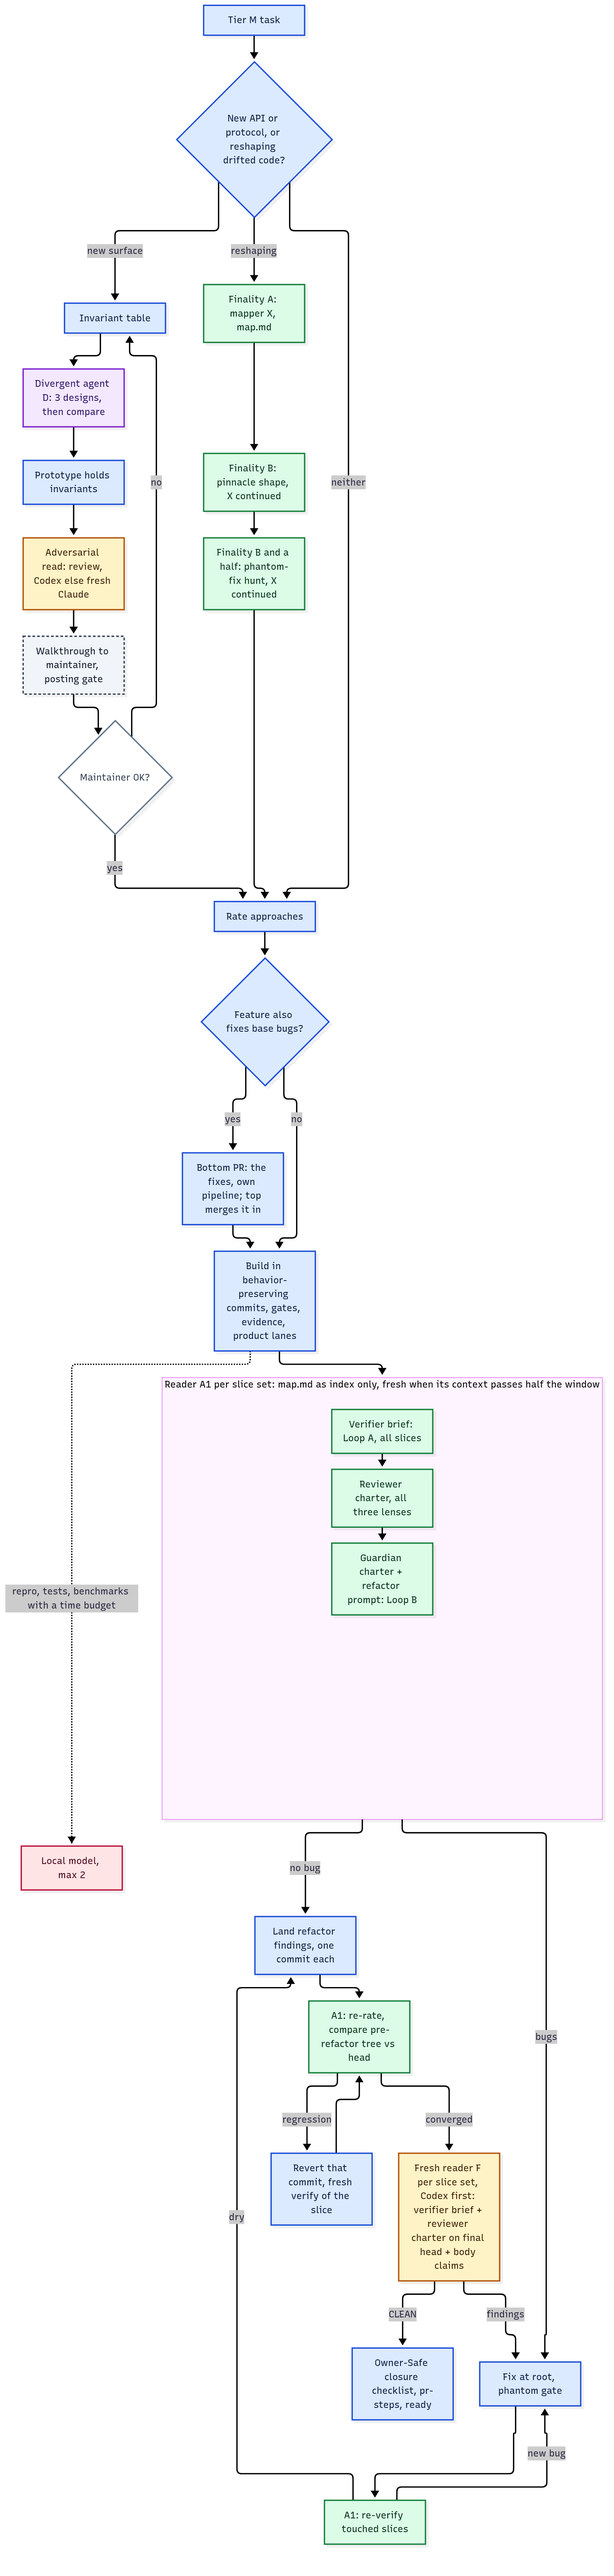
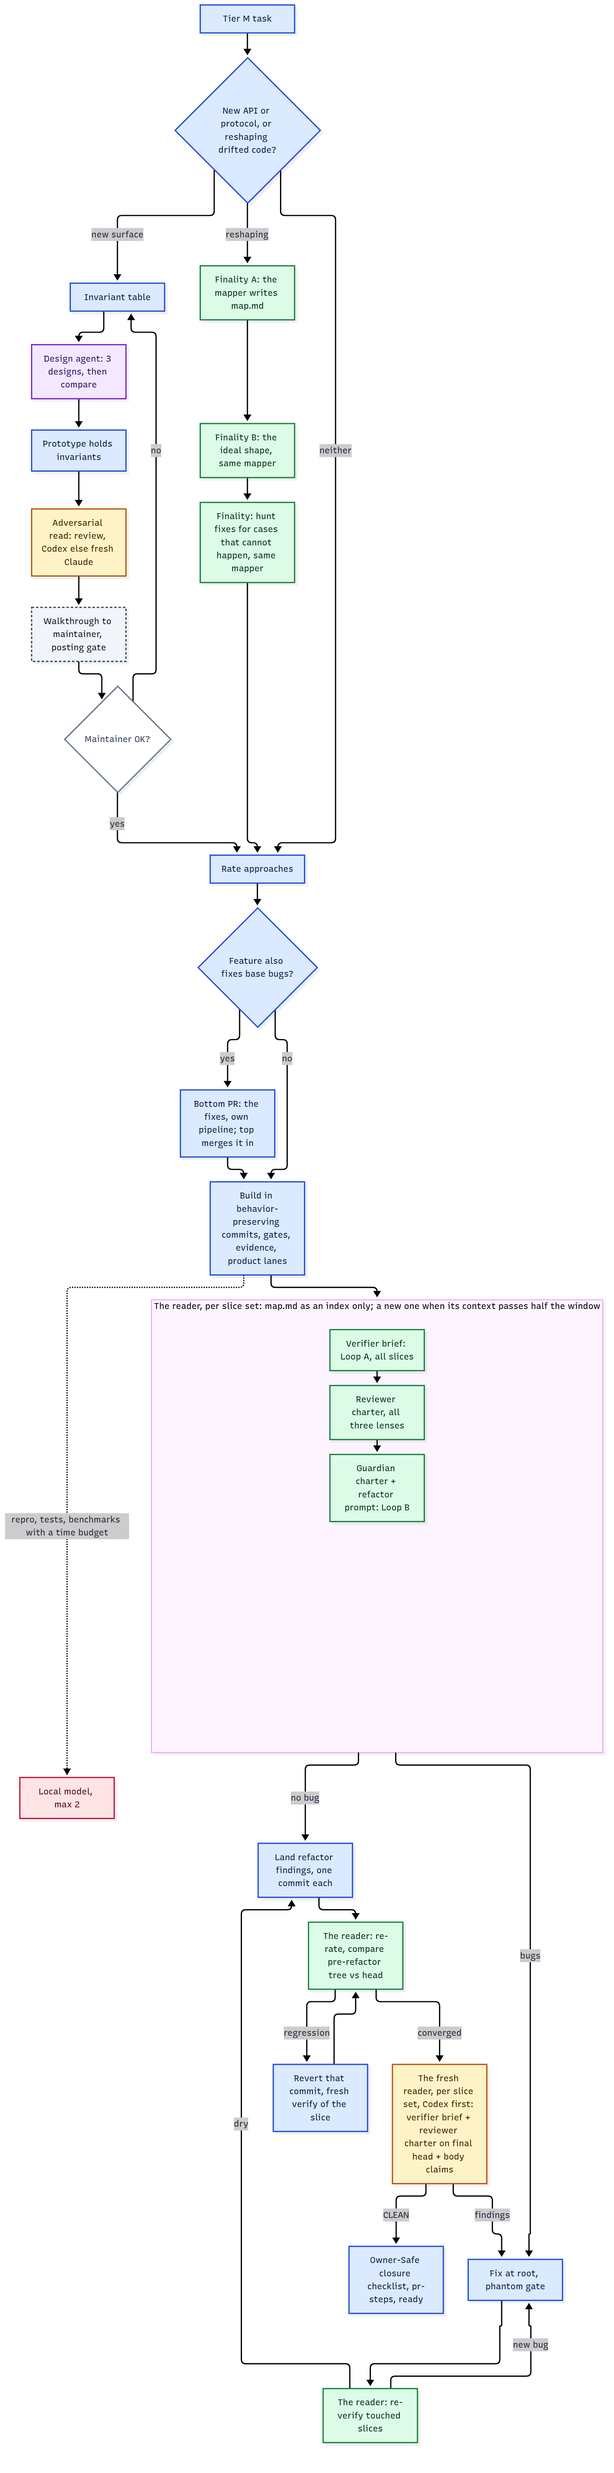
The repo is the product: drop working notes and incident history, plain names for the readers
Removed the execution-graph decision record (working notes), the past-failures rows that only retold
incidents whose rules live in the skills, and comments that narrated what happened instead of the reason.
'A1' and 'F' are now 'the reader' and 'the fresh reader', in the skills and the graphs.

diff --git a/watcher/gh-watch.py b/watcher/gh-watch.py
@@ -171,7 +171,7 @@ def emit_dependents(key):
 
 def emit_tracker_stale(key, ended):
     """umbrella.txt ("owner/repo N"): the program's umbrella issue (methodology 1.2). When a PR merges or closes, its
-    checkbox there must be ticked and say how it ended; a tracker updated "in the same step" from memory went stale for days."""
+    checkbox there must be ticked and say how it ended."""
     path = os.path.join(HERE, 'umbrella.txt')
     w = open(path).read().split() if os.path.exists(path) else []
     if len(w) < 2 or f"{w[0]}#{w[1]}" == key:
@@ -405,7 +405,7 @@ def notifications_changed(state):
     return keys
 
 
-# kept across rounds: a new TLS connection per request made a round of ~22 polls take ~7 s instead of ~2
+# kept across rounds: a new TLS connection per request makes a round several times slower
 _pool, _conn = ThreadPoolExecutor(8), threading.local()
 
 
@@ -575,7 +575,7 @@ def installed_root():
 
 def follow_update():
     """After a plugin update, point ~/.mergeworthy/current at the new version and exit 75: the daemon restarts this
-    script on the new code. Without it a watcher ran the version it started on until someone restarted it."""
+    script on the new code."""
     root = installed_root()
     link = os.path.join(HERE, 'gh-watch.py')
     if root and os.path.islink(link) and '/plugins/cache/' in os.readlink(link):  # pinned to one version by an old gh-watch-start

diff --git a/skills/past-failures/SKILL.md b/skills/past-failures/SKILL.md
@@ -44,7 +44,6 @@ Each happened, most more than once. When a rule fails or the user names a failur
 | Choices handed back that we could settle. | 1.6, `post-lint` |
 | A design credited to the maintainer who couldn't recall it. | 1.6 credit |
 | Review reports and raw rater output posted on PRs. | 1.6 process invisible, `post-lint` |
-| "They look good" as a review of the maintainer's commits. | 1.5 step 2 (maintainer commits) |
 | Over-engineering the maintainer cut (long collision checks, a tiny cache, rare-case docs, lookup tests); the maintainer cut most submitted test lines. | 1.1.15, 1.1.16 |
 | A 100-line feature with no user. | 1.1.16 feature list |
 | Five new core hooks where an existing extension point sufficed. | 1.4 step 0 |
@@ -59,18 +58,3 @@ Each happened, most more than once. When a rule fails or the user names a failur
 | Posting with inline bodies; `gh run rerun` on upstream (needs admin: ask a maintainer); fork PRs lack CI secrets, so those jobs fail. | 1.6 step 4, 1.7 CI |
 | The watcher started a separate headless agent per event; it ran without context or permissions, the user saw 👀 and no answer, and the session that owned the thread never heard of it. | 1.5 (the session is the agent, woken by its Monitor), `stop-lint` |
 | The agent was told to register every open PR and issue in the scope repos and answer every maintainer comment, and every thread it commented on joined its watch list; the user wants answers only on threads the agent opened or posted in, and to their own `/ai` calls. | 1.5 (which comments you answer), `gh-watch`, `post-bash-register` |
-| The user (also the repo's maintainer, posting from the agent's own account) asked questions and gave instructions on the agent's PRs without `/ai`; the watcher skipped them, so no 👀 and no answer for hours. The user's comment on a thread the agent opened or posted in is for the agent. | 1.5 (which comments you answer), `gh-watch` |
-| A resumed session ran an 11-PR audit with two decision makers as single PRs: no tier was recorded, so it skipped the umbrella issue and its Decisions comment until the user pointed it out. | 1.0 (the Tier line, read on every resume), 1.2 Tier L |
-| The umbrella issue kept the full audit report as its body with a PR table on top; the user wants the tracking shape of nitedani/vike-react-rsc#9 (checkbox line per PR with its state and what users hit, a Decisions comment with sources). | 1.2 Tier L |
-| A second discovery round got its own section in the tracking body; the user wants new problems in the existing list, PRs linked there ("after 10 rounds the body is 10 km long"). | 1.2 Tier L |
-| Design replies of 480 to 640 words came back as "I don't understand" or were read only superficially; one recommendation in about 50 words with "OK?" got "OK" within a minute (vikejs/vike#3550, #3407, #3500). | 1.6 budgets (a design answer ≤ 250 words, one decision per comment), `post-lint --kind proposal` |
-| The maintainer found the simpler design four times on one PR (vikejs/vike#3550: "100x cleaner … Why aren't you recommending this approach?"), including a row of the agent's own options table; the PR took 153 commits. | 1.4 step 1 (smallest interface that keeps the invariants), 1.5 step 3 (build the simpler version before "keep") |
-| Four recommendations were withdrawn after one maintainer question ("any downsides compared to what we do today?"), one after its LGTM. | 1.4 walkthrough item 4 (downsides against `main`) |
-| A subagent ran a benchmark for 10 hours; half of it was runs that couldn't be used (two benchmarks at once skewed the CPU), found only when the user asked whether 10 hours was normal. | 1.10 (a time budget and an early check) |
-| "Docker Desktop is the one thing blocking": the check was hours old and Docker was running. | 1.1.5 (re-check a blocker before reporting it) |
-| A spec took eleven review rounds, each finding a new case of the same rule (when `renderPage()` runs `+middleware`); restating it as one rule ended the churn. | 1.4 step 3 |
-| With the local model moved out of the plugin, nothing told sessions to use it: about 20 Claude reviewer subagents ran while `claude-usage` said `execute`. | the environment's own instructions (agent-tools' session-start hook and agent guard) |
-| A PR's review used one agent per role (review, refactor ratings, body check), every maintainer question two debaters, and design-it-twice three designers: most read the same head, multiplying the cost. | 1.1.14 (one agent per context, not per role), 1.5 step 3 (one divergent agent), 1.4 (design it three times in one agent) |
-| The review round and the refactor pass ran as separate agents in sequence, each reading the same diff from scratch; review rounds, guardian rounds and the final verification each started a fresh agent. | `implement-issue` steps 6 and 7 (one agent: review, then refactor), `review` (confirm with the same reviewer), `guardian` round N+1, `verify` |
-| CodeRabbit's valid finding on the agent's own PR sat unanswered until the user asked: the watcher reported only maintainers. | 1.5 (which comments you answer), `gh-watch` |
-| A requested spec was posted inline as a 20-row matrix with warning tables, after a three-comment burst; `post-lint` didn't count tables, so prose moved into tables to pass the budget. | 1.6 Writing (take load off the reader, one comment per turn, long material linked), `post-lint` (tables count), `pre-bash-guard` |

diff --git a/skills/core/SKILL.md b/skills/core/SKILL.md
@@ -32,8 +32,8 @@ Read the task and every link in it. Write `Tier: <X>, because <signals>` as the 
 | Tier | Signals | Process |
 |---|---|---|
 | **0: Answer** | An answer, research or a review; nothing to change. | Principles, evidence, reporting; the posting gate if published. |
-| **S: Single fix** | One bounded fix in one repo, expected behavior already clear. | `implement-issue` per change; its review round and refactor pass feed `pr-steps`. `converge`'s rules (git, authority, the phantom and removal gates, stacked PRs, gates and evidence); of its loops, one dry verification pass after the last fix and one guardian verdict, both in A1's run, then F on the final head (`converge`, who reads: two agents per PR). The project file's gates green, body true to the head. |
-| **M: Feature or set** | A new capability, a changed public contract, several change units, or open behavior questions. | `implement-issue` per unit, full `converge` in place of its single rounds (A1 continued across rounds, F on the final head, per slice set), invariants, ledger, decision packet, design loop (1.4). |
+| **S: Single fix** | One bounded fix in one repo, expected behavior already clear. | `implement-issue` per change; its review round and refactor pass feed `pr-steps`. `converge`'s rules (git, authority, the phantom and removal gates, stacked PRs, gates and evidence); of its loops, one dry verification pass after the last fix and one guardian verdict, both in the reader's run, then the fresh reader on the final head (`converge`, who reads: two agents per PR). The project file's gates green, body true to the head. |
+| **M: Feature or set** | A new capability, a changed public contract, several change units, or open behavior questions. | `implement-issue` per unit, full `converge` in place of its single rounds (the reader continued across rounds, the fresh reader on the final head, per slice set), invariants, ledger, decision packet, design loop (1.4). |
 | **L: Program** | Changes across two or more independently maintained repos, or two or more decision makers. | Tier M everywhere, plus the umbrella issue (1.2). |
 
 ## 1.1 Principles
@@ -85,7 +85,7 @@ Read the task and every link in it. Write `Tier: <X>, because <signals>` as the 
 - **Tier M:** `ledger.md`, one row per event (time | unit | event | head SHA | result: each pass, round, fix with its commits, gate or lane run with its exit status, push, CI result), headed by `critical-path` and the passes still owed. Answer every status and convergence question from it, skipped steps included. `decision-packet.md`: only people's picks (decision | who | date | link | what it was picked over). `scope.md`, `acceptance.md`, and `corrections.md` (quote | instance fix | generator fix).
 - **Tier L:** an umbrella issue titled `Tracking: <goal>`, in the shape of nitedani/vike-react-rsc#9, plus one live **Decisions comment** on it, both edited in place through the gate (`post-lint --kind tracker` checks the shape). Every line has a source link. Set it up before the first PR (1.12): the issue the user names, or the program's own issue (an audit, a plan) turned into the umbrella; a new one only when neither exists. Write `owner/repo N` to `umbrella.txt` in the watch dir: when a PR merges or closes and its checkbox isn't ticked with that state, the watcher prints `### TRACKER STALE`, handled like a maintainer comment.
   - Body: one sentence on what it tracks and what has to land, then `All decisions made so far: <Decisions comment link> (kept up to date).`, then sections by theme, each a checkbox list, one line per PR or issue: `- [x] owner/repo#N (merged, released in X): <what a user hit on main>. <why it's needed here>`. States: merged, not yet released, ready for review, in review, closed (struck through, with why). Work with no PR yet gets its own line saying what it waits on. Problems found later (another discovery round, a review) join the existing section their kind belongs to; never a section per round, which grows the body without bound. No tables, and no process (reviews, agents, rounds). Long content (an audit's findings, a design) goes in its own comment, linked from the body.
-  - Decisions comment: `## Decisions`, `Every decision so far, with its source. Kept up to date by editing this comment; the newest statement wins.`, then `### Process and requirements`, `### Agreed`, `### Open` (each with your recommendation). No PR states: they live only in the body, where the watcher checks them; a second copy went stale for days. Each line ends with who said it and the link.
+  - Decisions comment: `## Decisions`, `Every decision so far, with its source. Kept up to date by editing this comment; the newest statement wins.`, then `### Process and requirements`, `### Agreed`, `### Open` (each with your recommendation). No PR states: they live only in the body, where the watcher checks them. Each line ends with who said it and the link.
   - Update the body **and** the Decisions comment in the same step as every event.
   - A forward-looking line ("working on X", "waiting on Y") names the event that removes it; when that event fires, remove the line.
   - Program-wide status lives only on the umbrella; a PR body keeps only its own notes table. When a decision replaces a design, update every surface that still describes the old one (code, tests, types, docs, open PR bodies) in the same step.

diff --git a/skills/converge/SKILL.md b/skills/converge/SKILL.md
@@ -11,10 +11,10 @@ You are the orchestrator of a pull request (or a stack of them) that has to reac
 
 Converged means every one of these has converged:
 1. Bug verification (Loop A): every slice of every PR has a dry, reproduce-only pass after its last fix (`verify`).
-2. Guardian (Loop B, bloat and quality): A1's guardian verdict per scope finds nothing behavior-preserving worth its price and says so in an honest-positive verdict, and F's Bloat lens on the final head is clean (`guardian`).
+2. Guardian (Loop B, bloat and quality): the reader's guardian verdict per scope finds nothing behavior-preserving worth its price and says so in an honest-positive verdict, and the fresh reader's Bloat lens on the final head is clean (`guardian`).
 3. Refactor pass: every file, function and piece of logic is rated, the ratings are high and justified, and the rater's last round leaves nothing worth doing (`refactor`).
 4. Finality and Owner-Safe closure, where the area has drifted through many patches (`finality`).
-5. Code review against the repo's standards and the spec: F on the final head (who reads, below).
+5. Code review against the repo's standards and the spec: the fresh reader on the final head (who reads, below).
 6. Every gate and product lane green on each PR's final head, CI green, and the PR bodies true to the final head.
 
 Owner decisions, and changes to code the owner wrote, don't block convergence: they are listed for the owner with a recommendation.
@@ -22,9 +22,9 @@ Owner decisions, and changes to code the owner wrote, don't block convergence: t
 ### Who reads: two agents per PR
 
 Every pass above runs in one of two readers, each per context-sized slice set (one of each under about 1500 diff lines, and per PR in a stack). The briefs and charters run as written, each into its own output file.
-- **A1, the continued reader** (a Claude agent: it judges). One run, in this order, because rating code a bug fix will change is waste: the verifier brief (`verify`), the reviewer charter with all three lenses (`review`), the guardian charter and the refactor prompt (`guardian`, `refactor`). It reads the head's code in full; a finality `map.md` is a navigation index only. After fixes, send it the new commits: it re-verifies the touched slices until dry, then re-rates old ⇒ new after the refactor commits. A regression means revert that commit and verify that slice fresh. Start a fresh A1 with the last report when its context passes about half the window or the decision packet changes.
-- **F, the fresh reader of the final head** (`review`'s order: Codex first). One run: the verifier brief on the final head, the reviewer charter, and the PR body's claims and screenshots. It is the PR body's posting-gate review. Its findings go back to the fixes; F continues only when the head changed by exactly its own findings' fixes, else a fresh F.
-- Execution (repro loops, tests, benchmarks with a time budget) is the main session's, on the local model where the machine provides one; never A1's or F's judgment.
+- **The reader** (a Claude agent: it judges). One run, in this order, because rating code a bug fix will change is waste: the verifier brief (`verify`), the reviewer charter with all three lenses (`review`), the guardian charter and the refactor prompt (`guardian`, `refactor`). It reads the head's code in full; a finality `map.md` is a navigation index only. After fixes, send it the new commits: it re-verifies the touched slices until dry, then re-rates old ⇒ new after the refactor commits. A regression means revert that commit and verify that slice fresh. Start a new reader with the last report when its context passes about half the window or the decision packet changes.
+- **The fresh reader of the final head** (`review`'s order: Codex first). One run: the verifier brief on the final head, the reviewer charter, and the PR body's claims and screenshots. It is the PR body's posting-gate review. Its findings go back to the fixes; The fresh reader continues only when the head changed by exactly its own findings' fixes, else a new one.
+- Execution (repro loops, tests, benchmarks with a time budget) is the main session's, on the local model where the machine provides one; never the readers' judgment.
 
 ### Git and files
 

diff --git a/skills/implement-issue/SKILL.md b/skills/implement-issue/SKILL.md
@@ -89,11 +89,11 @@ Tear the stack down when you finish, including when you abort.
 
 ### 6. Review round
 
-A1 (`converge`, who reads): one agent, one run, on the diff: the verifier brief, the reviewer charter, then the guardian verdict and the refactor ratings, each into its own output file. The context it filled reviewing is the context it rates with.
+The reader (`converge`, who reads): one agent, one run, on the diff: the verifier brief, the reviewer charter, then the guardian verdict and the refactor ratings, each into its own output file. The context it filled reviewing is the context it rates with.
 
 ### 7. Refactor pass
 
-Fix the real defects; A1, sent the commits, re-verifies until dry. Then implement the ratings commit by commit, gates after each; A1 re-rates old ⇒ new (`pr-steps refactor`). Last, F reads the final head and the PR body (`converge`, who reads): its CLEAN is both the body's gate review and `pr-steps review` on that head.
+Fix the real defects; the reader, sent the commits, re-verifies until dry. Then implement the ratings commit by commit, gates after each; the reader re-rates old ⇒ new (`pr-steps refactor`). Last, the fresh reader reads the final head and the PR body (`converge`, who reads): its CLEAN is both the body's gate review and `pr-steps review` on that head.
 
 ### 8. The PR
 

diff --git a/README.md b/README.md
@@ -45,7 +45,7 @@ This is the work automation methodology (v3), split into skills along its own pa
 
 ## How the passes connect
 
-`docs/execution-graph.md` is the decision record (invariants, candidates, why two readers per PR), and `docs/graphs/` has one graph per entry point: the entry router, the Tier S and Tier M PR pipelines, the Tier L program, a comment, the other watcher events, and the posting gate (`.mmd` sources, rendered `.png`).
+`docs/graphs/` has one graph per entry point: the entry router, the Tier S and Tier M PR pipelines, the Tier L program, a comment, the other watcher events, and the posting gate (`.mmd` sources, rendered `.png`).
 
 ## Layout
 
@@ -56,7 +56,7 @@ hooks/              hooks.json and the scripts it runs
 bin/                commands on the Bash PATH: gate-pass, post-lint, pr-steps, gh-watch-start
 watcher/            the GitHub watcher daemon gh-watch-start runs
 cli/                the npx mergeworthy installer
-docs/               the execution graph and its rendered graphs
+docs/graphs/        one graph per entry point (.mmd source, rendered .png)
 .claude-plugin/     the plugin manifest (options) and its marketplace
 ```
 

diff --git a/skills/review/SKILL.md b/skills/review/SKILL.md
@@ -24,7 +24,7 @@ After you fix its findings, continue the same reviewer (send it what changed) to
 
 The reviewer (`review`) reviews the diff with the reviewer charter at the end of this skill. Write the charter to `<artifact root>/review-<pass id>.md` and append: the diff command against `git merge-base HEAD origin/<base>`, the issue link (Tier ≥ M: also `acceptance.md`), and one sentence on what the change claims to do. It says UNKNOWN for anything it could not observe; paste your gate commands, exit codes and output where it can't run them. If no reviewer at all is available, review it yourself with the charter.
 
-In a PR's pipeline the review round runs inside A1 and again inside F, the fresh reader of the final head (`converge`, who reads).
+In a PR's pipeline the review round runs inside the reader and again inside the fresh reader of the final head (`converge`, who reads).
 
 One round: fix real defects, decline the rest with a line of reasoning (1.1.15), no second round. Record who reviewed (or that it was a self-review) and what they found, including nothing, in the ledger (1.2), and run `pr-steps review <output>`.
 

diff --git a/skills/verify/SKILL.md b/skills/verify/SKILL.md
@@ -5,7 +5,7 @@ description: "Bug verification of a PR (reproduce-only): slicing, the verifier b
 
 # Bug verification
 
-Split the code into slices one verifier can hold (e.g. core feature, backend and storage, runtime adapter, wire and client), per PR. The verifier brief below runs inside A1 for all slices of its slice set, one report section per slice, and again inside F on the final head (`converge`, who reads).
+Split the code into slices one verifier can hold (e.g. core feature, backend and storage, runtime adapter, wire and client), per PR. The verifier brief below runs inside the reader for all slices of its slice set, one report section per slice, and again inside the fresh reader on the final head (`converge`, who reads).
 
 Counting rule:
 - A candidate counts only with a spec or script that fails on the head and passes on the base (main, or the bottom PR for the top).

diff --git a/skills/guardian/SKILL.md b/skills/guardian/SKILL.md
@@ -10,7 +10,7 @@ Run late, after correctness is proven, with the gates as the safety net. Finding
 Split the diff into scopes (e.g. core feature, backend, everything else; the bottom PR is its own scope).
 
 Round 1:
-- The guardian brief below runs inside A1 (`converge`, who reads), every scope in its slice set, one report section each.
+- The guardian brief below runs inside the reader (`converge`, who reads), every scope in its slice set, one report section each.
 - Each writes a report: findings by disposition with prices, the mechanism census, the 10-second pass as classes, ratings of every file, function and piece of logic with the ✅ tick list, and an honest-positive statement.
 
 Implementation:
